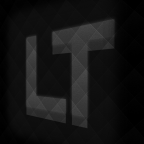
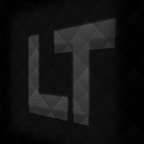
Image updates.
Optimized and Resized.

diff --git a/index.html b/index.html
@@ -15,7 +15,7 @@
         <meta property="fb:admins" content="">
         <meta property="og:type" content="website">
         <meta property="og:url" content="">
-        <meta name="twitter:site" content="@twitter" />
+        <meta name="twitter:site" content="@leonimuz" />
         <meta property="og:site_name" content="LT Boilerplate">
         <meta property="og:title" content="LT Boilerplate - A template for designing excellent websites">
         <meta property="og:image" content="200.png">
@@ -25,7 +25,7 @@
         <link rel="stylesheet" type="text/css" href="http://fonts.googleapis.com/css?family=Open+Sans:400,600|Montserrat:400,700">
         <link rel="stylesheet" type="text/css" href="css/main.css">
         <link rel="shortcut icon" href="favicon.ico">
-        <link rel="apple-touch-icon-precomposed" href="512.png">
+        <link rel="apple-touch-icon-precomposed" href="500.png">
         <link rel="image_src" href="200.png">
         <meta name="twitter:image" content="200.png" />
         <script src="//cdnjs.cloudflare.com/ajax/libs/modernizr/2.6.2/modernizr.min.js"></script>

diff --git a/README.md b/README.md
@@ -1,8 +1,8 @@
 # LT Boilerplate
-## Leon Taveras' Project Template
+####Leon Taveras' Project Template
 
 This project uses [Sass](http://sass-lang.com/) and [Compass](http://compass-style.org/)
 
-With snippets and styles from [PureCSS](http://purecss.io),  [HTML5 Boilerplate](http://html5boilerplate.com/), [Foundation](http://foundation.zurb.com/), [CSS-Tricks](CSS-Tricks.com),[Sacha Greif](http://sachagreif.com) and [FlatUI](http://designmodo.com/shop/?u=187).
+With snippets and styles from [PureCSS](http://purecss.io),  [HTML5 Boilerplate](http://html5boilerplate.com/), [Foundation](http://foundation.zurb.com/), [CSS-Tricks](http://css-tricks.com),[Sacha Greif](http://sachagreif.com) and [FlatUI](http://designmodo.com/shop/?u=187).
 
 Code released under [WTFPL](http://www.wtfpl.net/about/) Unless other licenses specified in files.
